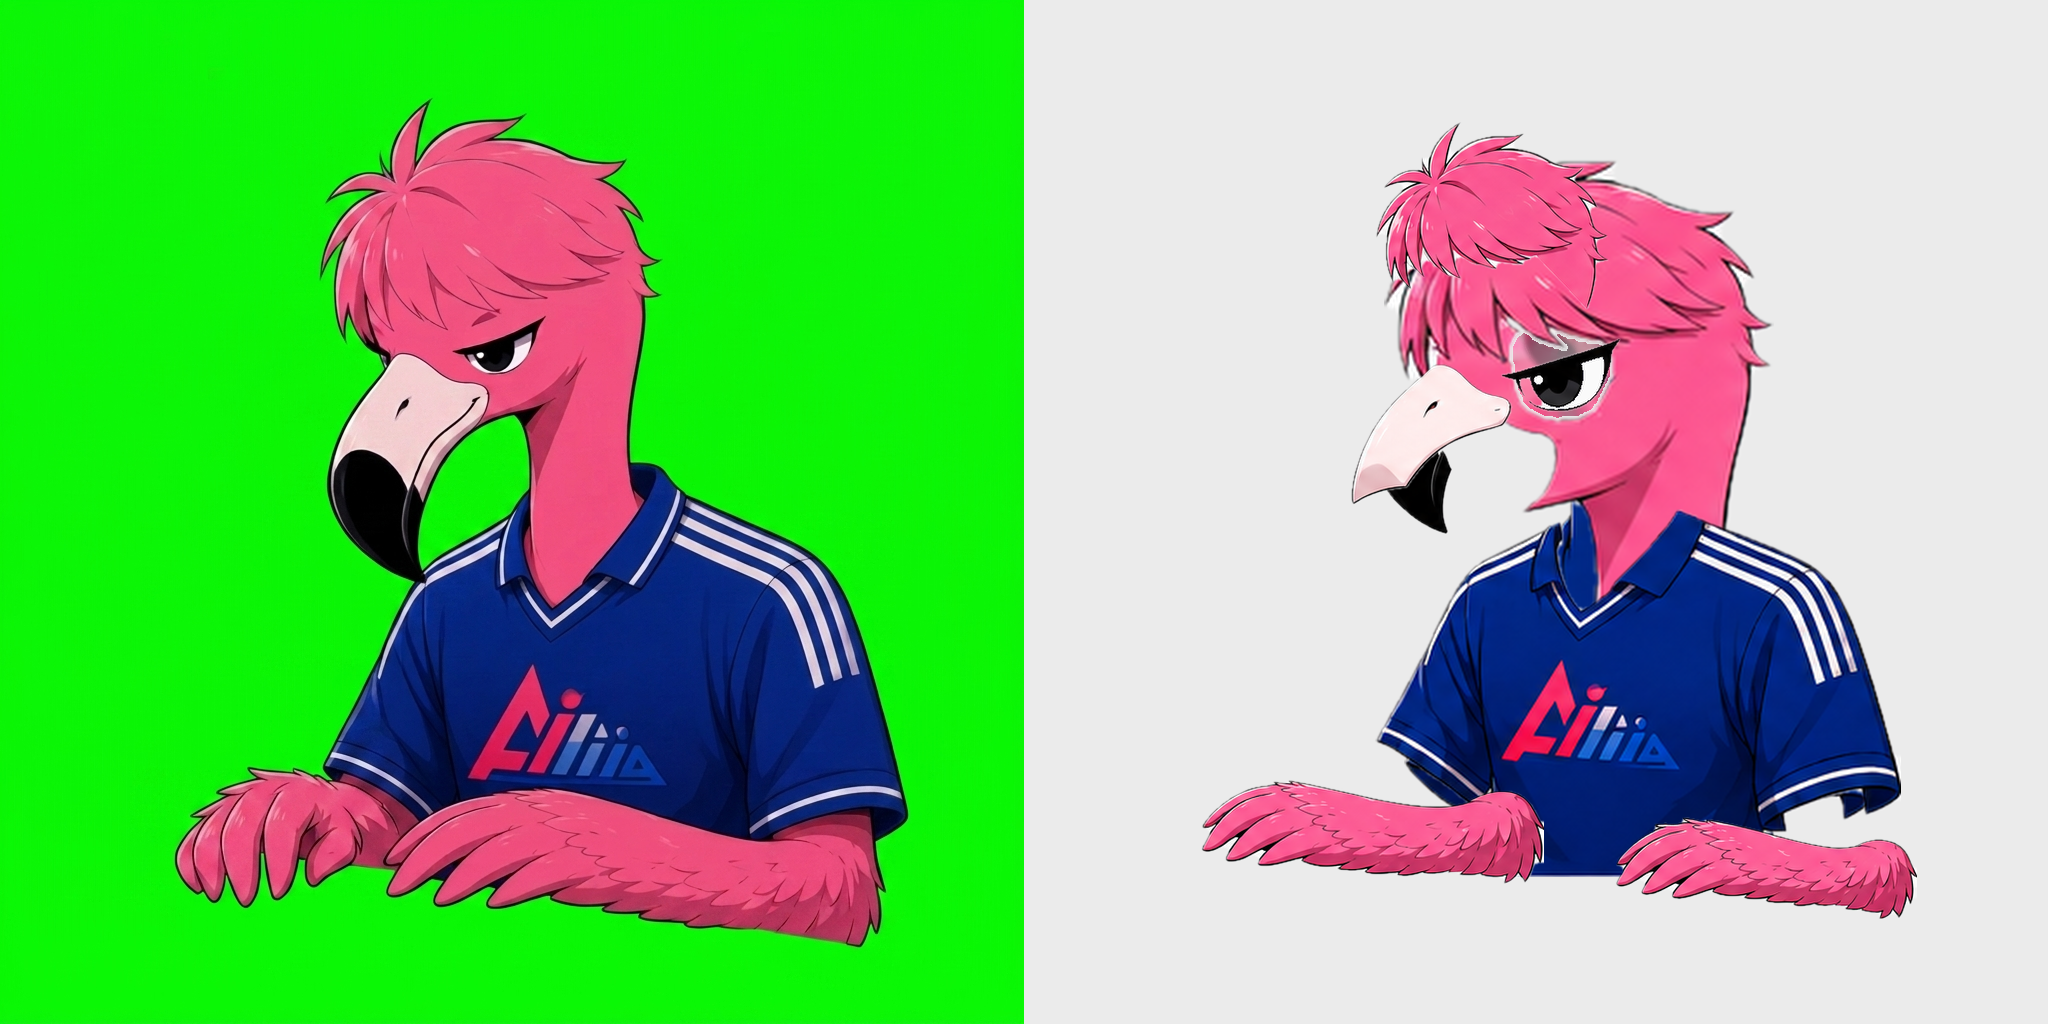
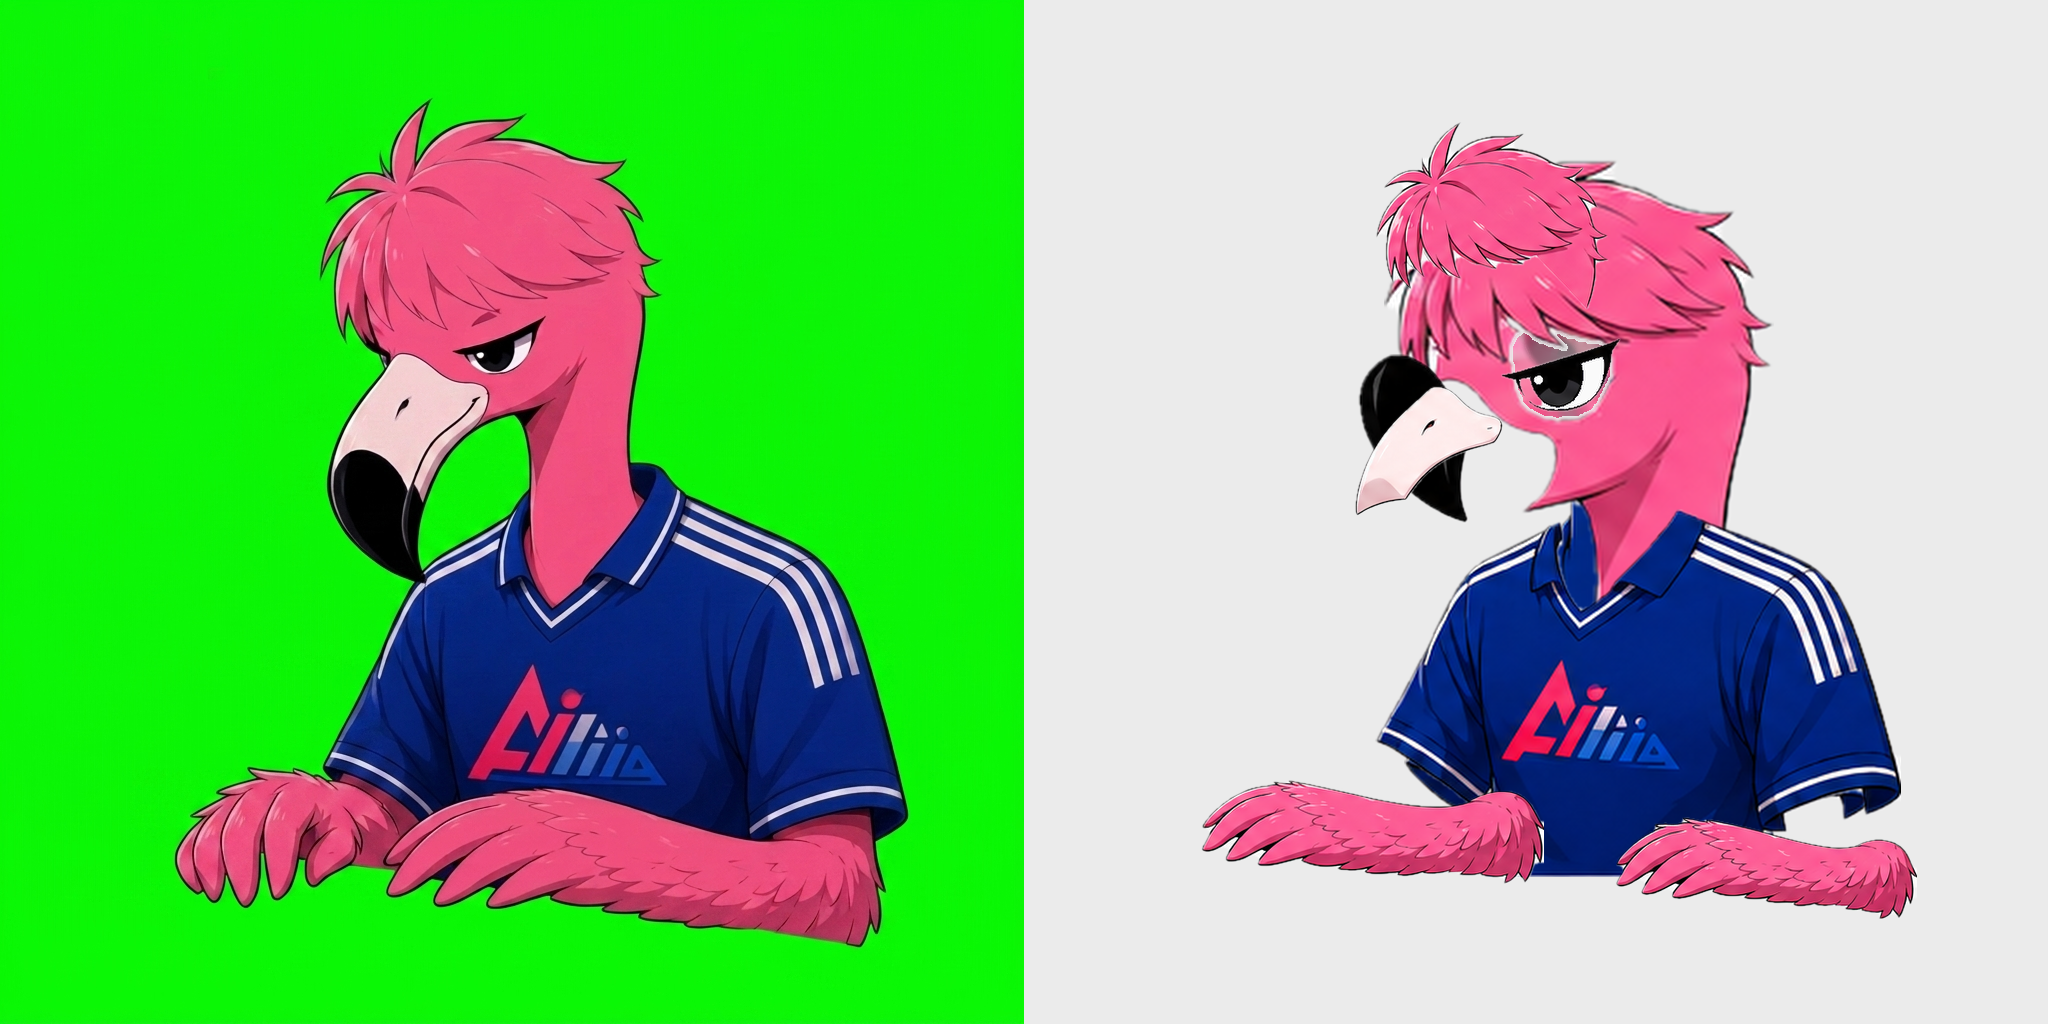
부리 상/하 분리 폐기 — 두 상태 통짜 교차 방식으로 전환 (사용자 제안)
- mouth_close = 원본에서 크롭한 닫힌 부리 통짜 (v3 upper+lower 병합, 원본 픽셀)
- mouth_open = 파츠 시트의 벌린 입 아트를 부리 자리에 배치
- 부리 재생성 프롬프트/회전 합성 모두 불필요해짐
- Anime2.5DRig 실기 검증: 개폐 양쪽 정상

Changed region(s): [[0.6562, 0.3438, 0.75, 0.5312]]

diff --git a/live2d/assemble_v4.py b/live2d/assemble_v4.py
@@ -282,14 +282,17 @@ def build():
     Image.fromarray(np.concatenate([orig[:, :, :3], preview[:, :, :3]], axis=1)).save(OUT_COMPARE)
     print(f"preview/compare -> {OUT_PREVIEW}")
 
-    # Anime2.5DRig 변형: mouth_open = 입안 + 아랫부리 27도 회전 + 윗부리
-    lb = placed["lower_beak"]
-    ys, xs = np.where(lb[:, :, 3] > 40)
-    pivot = (float(xs.max()), float(ys.min()))  # 부리 뿌리(오른쪽 위)
-    M = cv2.getRotationMatrix2D(pivot, -27, 1.0)
-    lb_open = cv2.warpAffine(lb, M, (CANVAS, CANVAS), flags=cv2.INTER_LINEAR,
-                             borderMode=cv2.BORDER_CONSTANT, borderValue=(0, 0, 0, 0))
-    mouth_open = merge(placed["mouth_inside"], lb_open, placed["upper_beak"])
+    # Anime2.5DRig 변형: 부리 상/하 분리 불필요 — 두 상태를 통짜로 교차한다.
+    # mouth_close = 원본에서 크롭한 닫힌 부리 통짜(v3, 진짜 원본 픽셀)
+    # mouth_open  = 시트의 벌린 입 아트를 부리 자리에 배치
+    v3u = np.array(Image.open(os.path.join(V3, "upper_beak.png")).convert("RGBA"))
+    v3l = np.array(Image.open(os.path.join(V3, "lower_beak.png")).convert("RGBA"))
+    beak_closed = cv2.resize(merge(v3l, v3u), (CANVAS, CANVAS),
+                             interpolation=cv2.INTER_CUBIC)
+    ys, xs = np.where(beak_closed[:, :, 3] > 40)
+    bcx, bcy = (xs.min() + xs.max()) / 2, (ys.min() + ys.max()) / 2
+    bw, bh = xs.max() - xs.min(), ys.max() - ys.min()
+    mouth_open = place_at(cuts["mouth_inside"], bcx, bcy, bw * 1.1, bh * 1.1)
 
     write_psd(OUT_PSD_25D, [
         ("face", placed["head_base"]),
@@ -297,7 +300,7 @@ def build():
         ("eye_close", placed["eye_closed"]),
         ("topwear", merge(placed["body_fill"], placed["body_visible"])),
         ("mouth_open", mouth_open),
-        ("mouth_close", merge(placed["lower_beak"], placed["upper_beak"])),
+        ("mouth_close", beak_closed),
         ("front hair", placed["hair_front"]),
         ("left_arm", placed["left_arm"]),
         ("right_arm", placed["right_arm"]),
